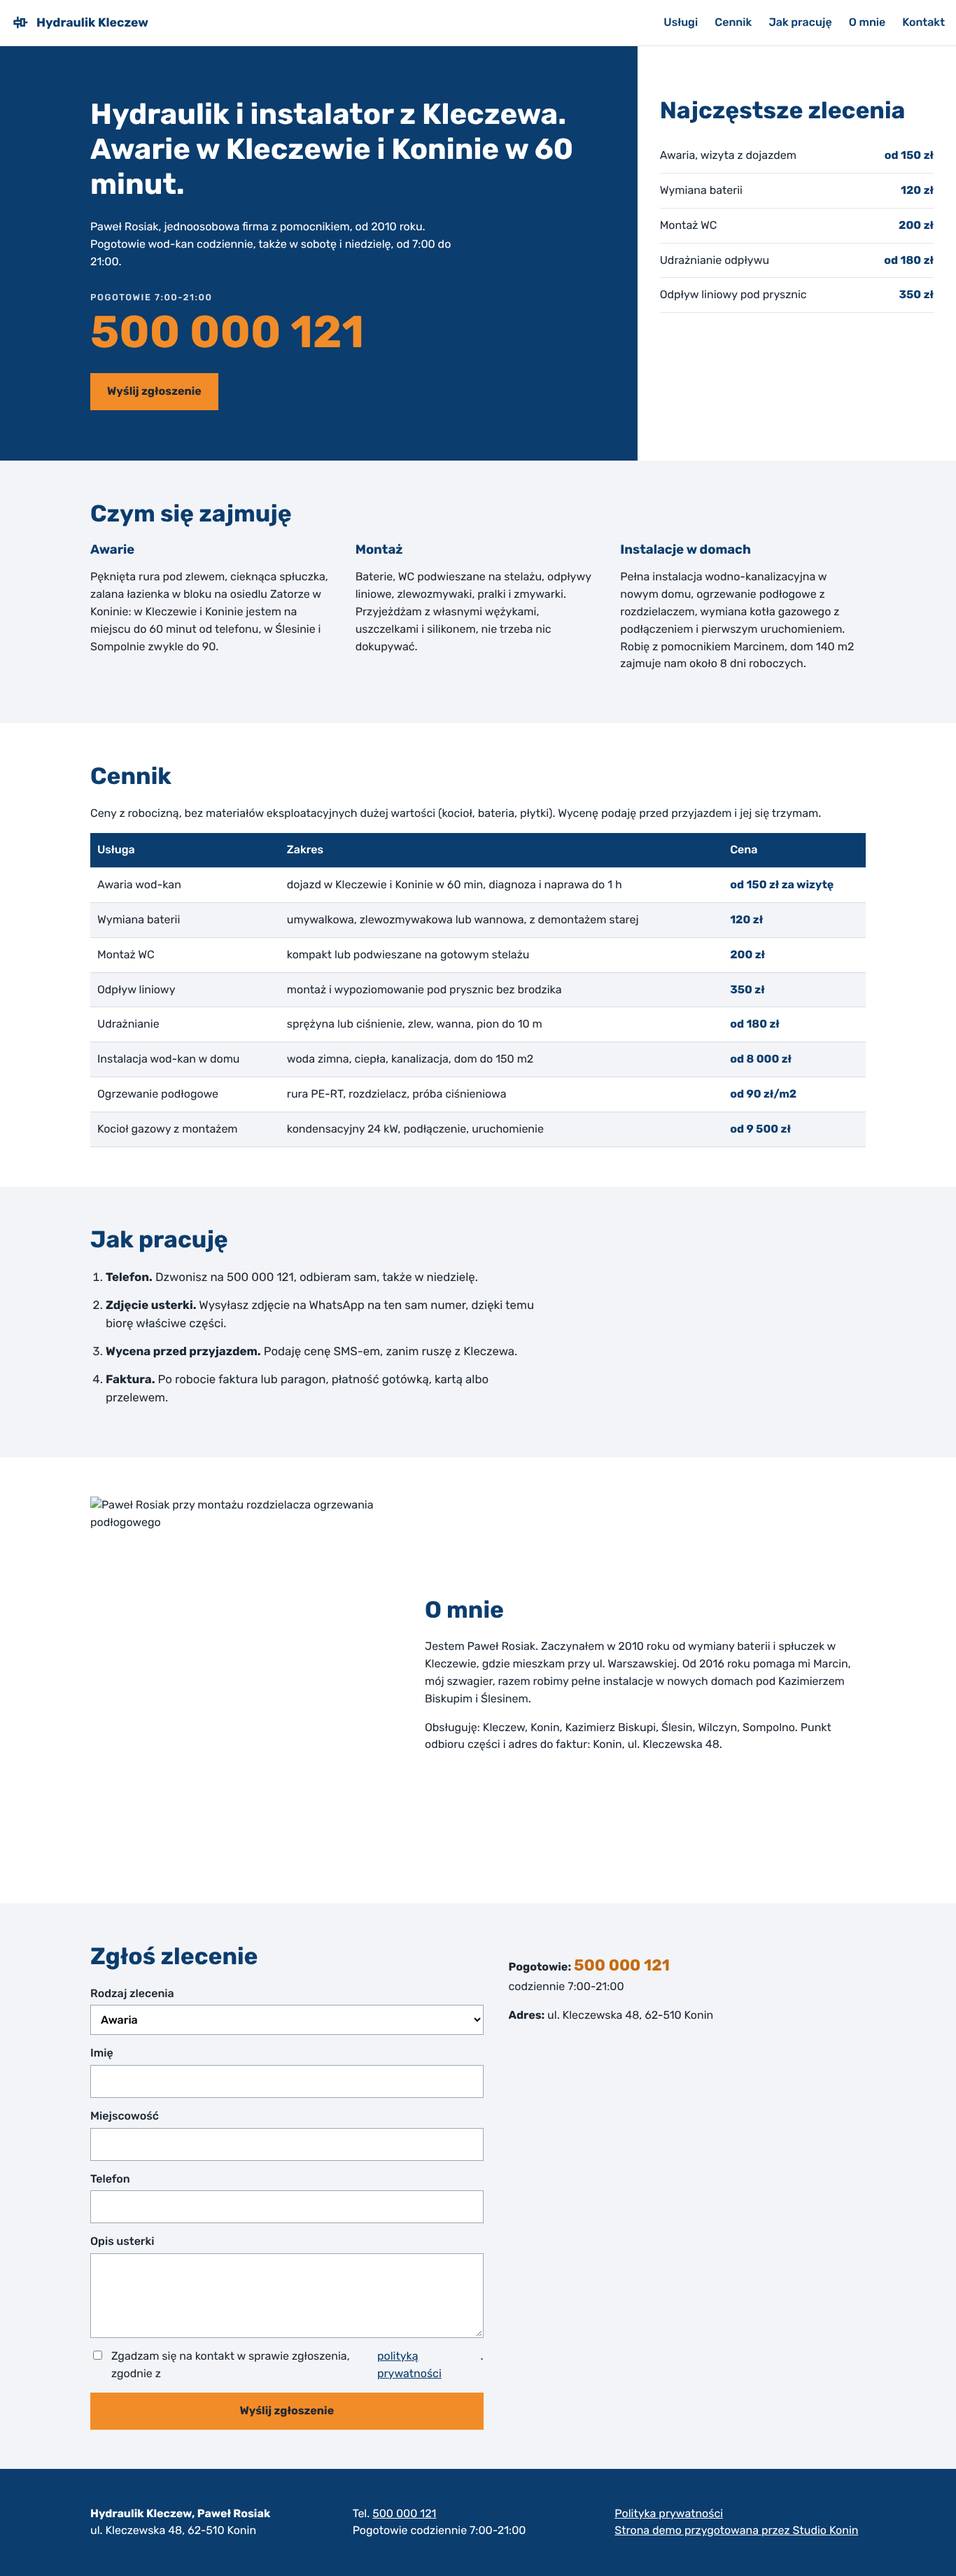
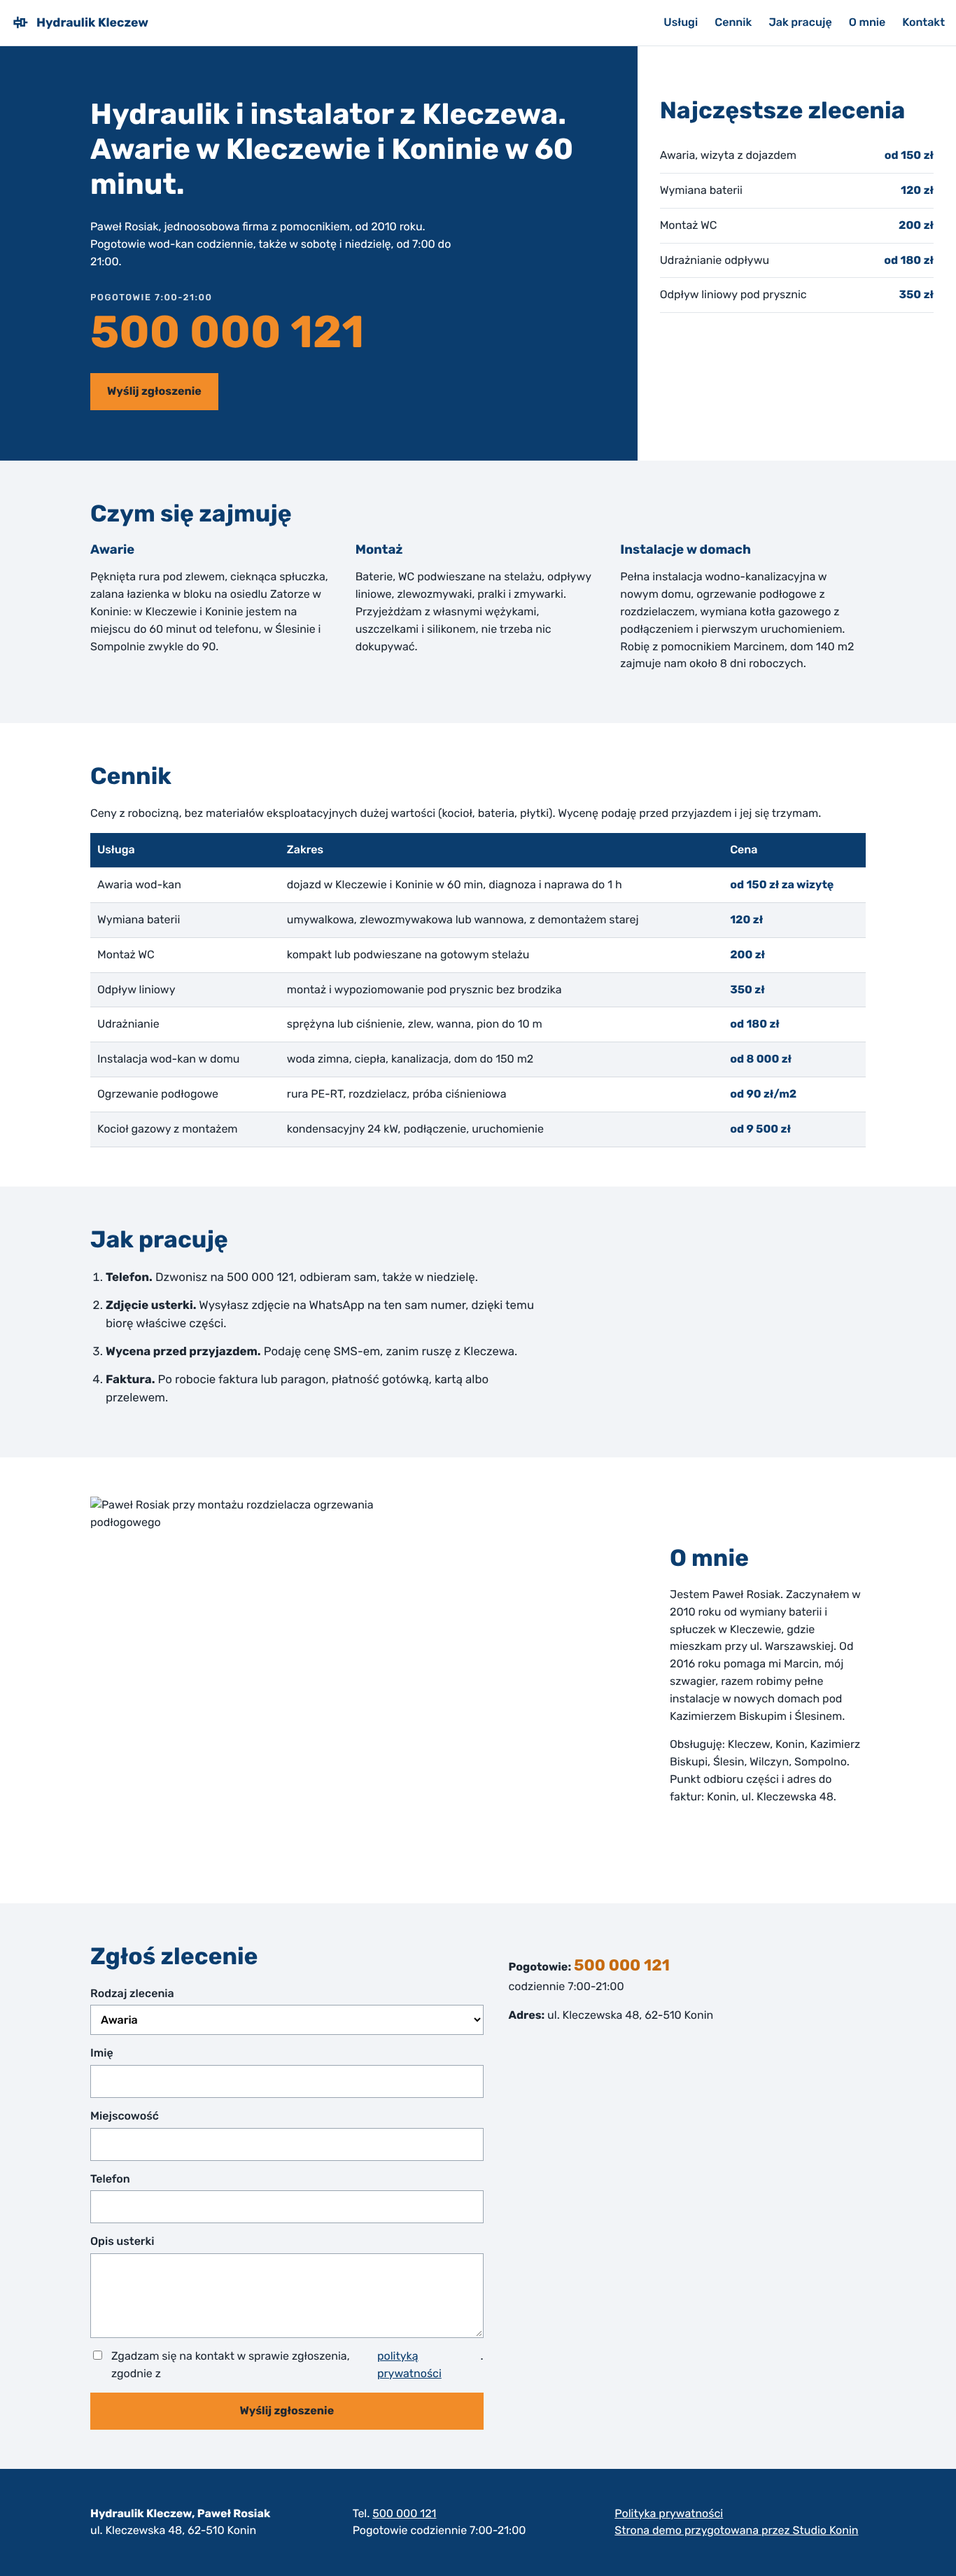
Demo instalator-hydraulik: poprawka szerokości zdjęcia na telefonie
Claude-Session: https://claude.ai/code/session_01TXk2k6jNqCXwzabrb8LvPR

Changed region(s): [[0.4305, 0.5938, 0.8917, 0.6875]]

diff --git a/demo/instalator-hydraulik/style.css b/demo/instalator-hydraulik/style.css
@@ -42,7 +42,7 @@ td:last-child{font-weight:700;color:#0b3d6e;white-space:nowrap}
 tbody tr:nth-child(even){background:#f2f4f7}
 .steps{padding-left:22px;max-width:62ch;display:grid;gap:14px;font-size:1.05rem}
 .about{display:grid;gap:28px}
-.about img{max-width:420px}
+.about img{max-width:min(420px,100%)}
 .contact{display:grid;gap:36px}
 form{display:grid;gap:14px}
 label{display:grid;gap:4px;font-weight:500}
